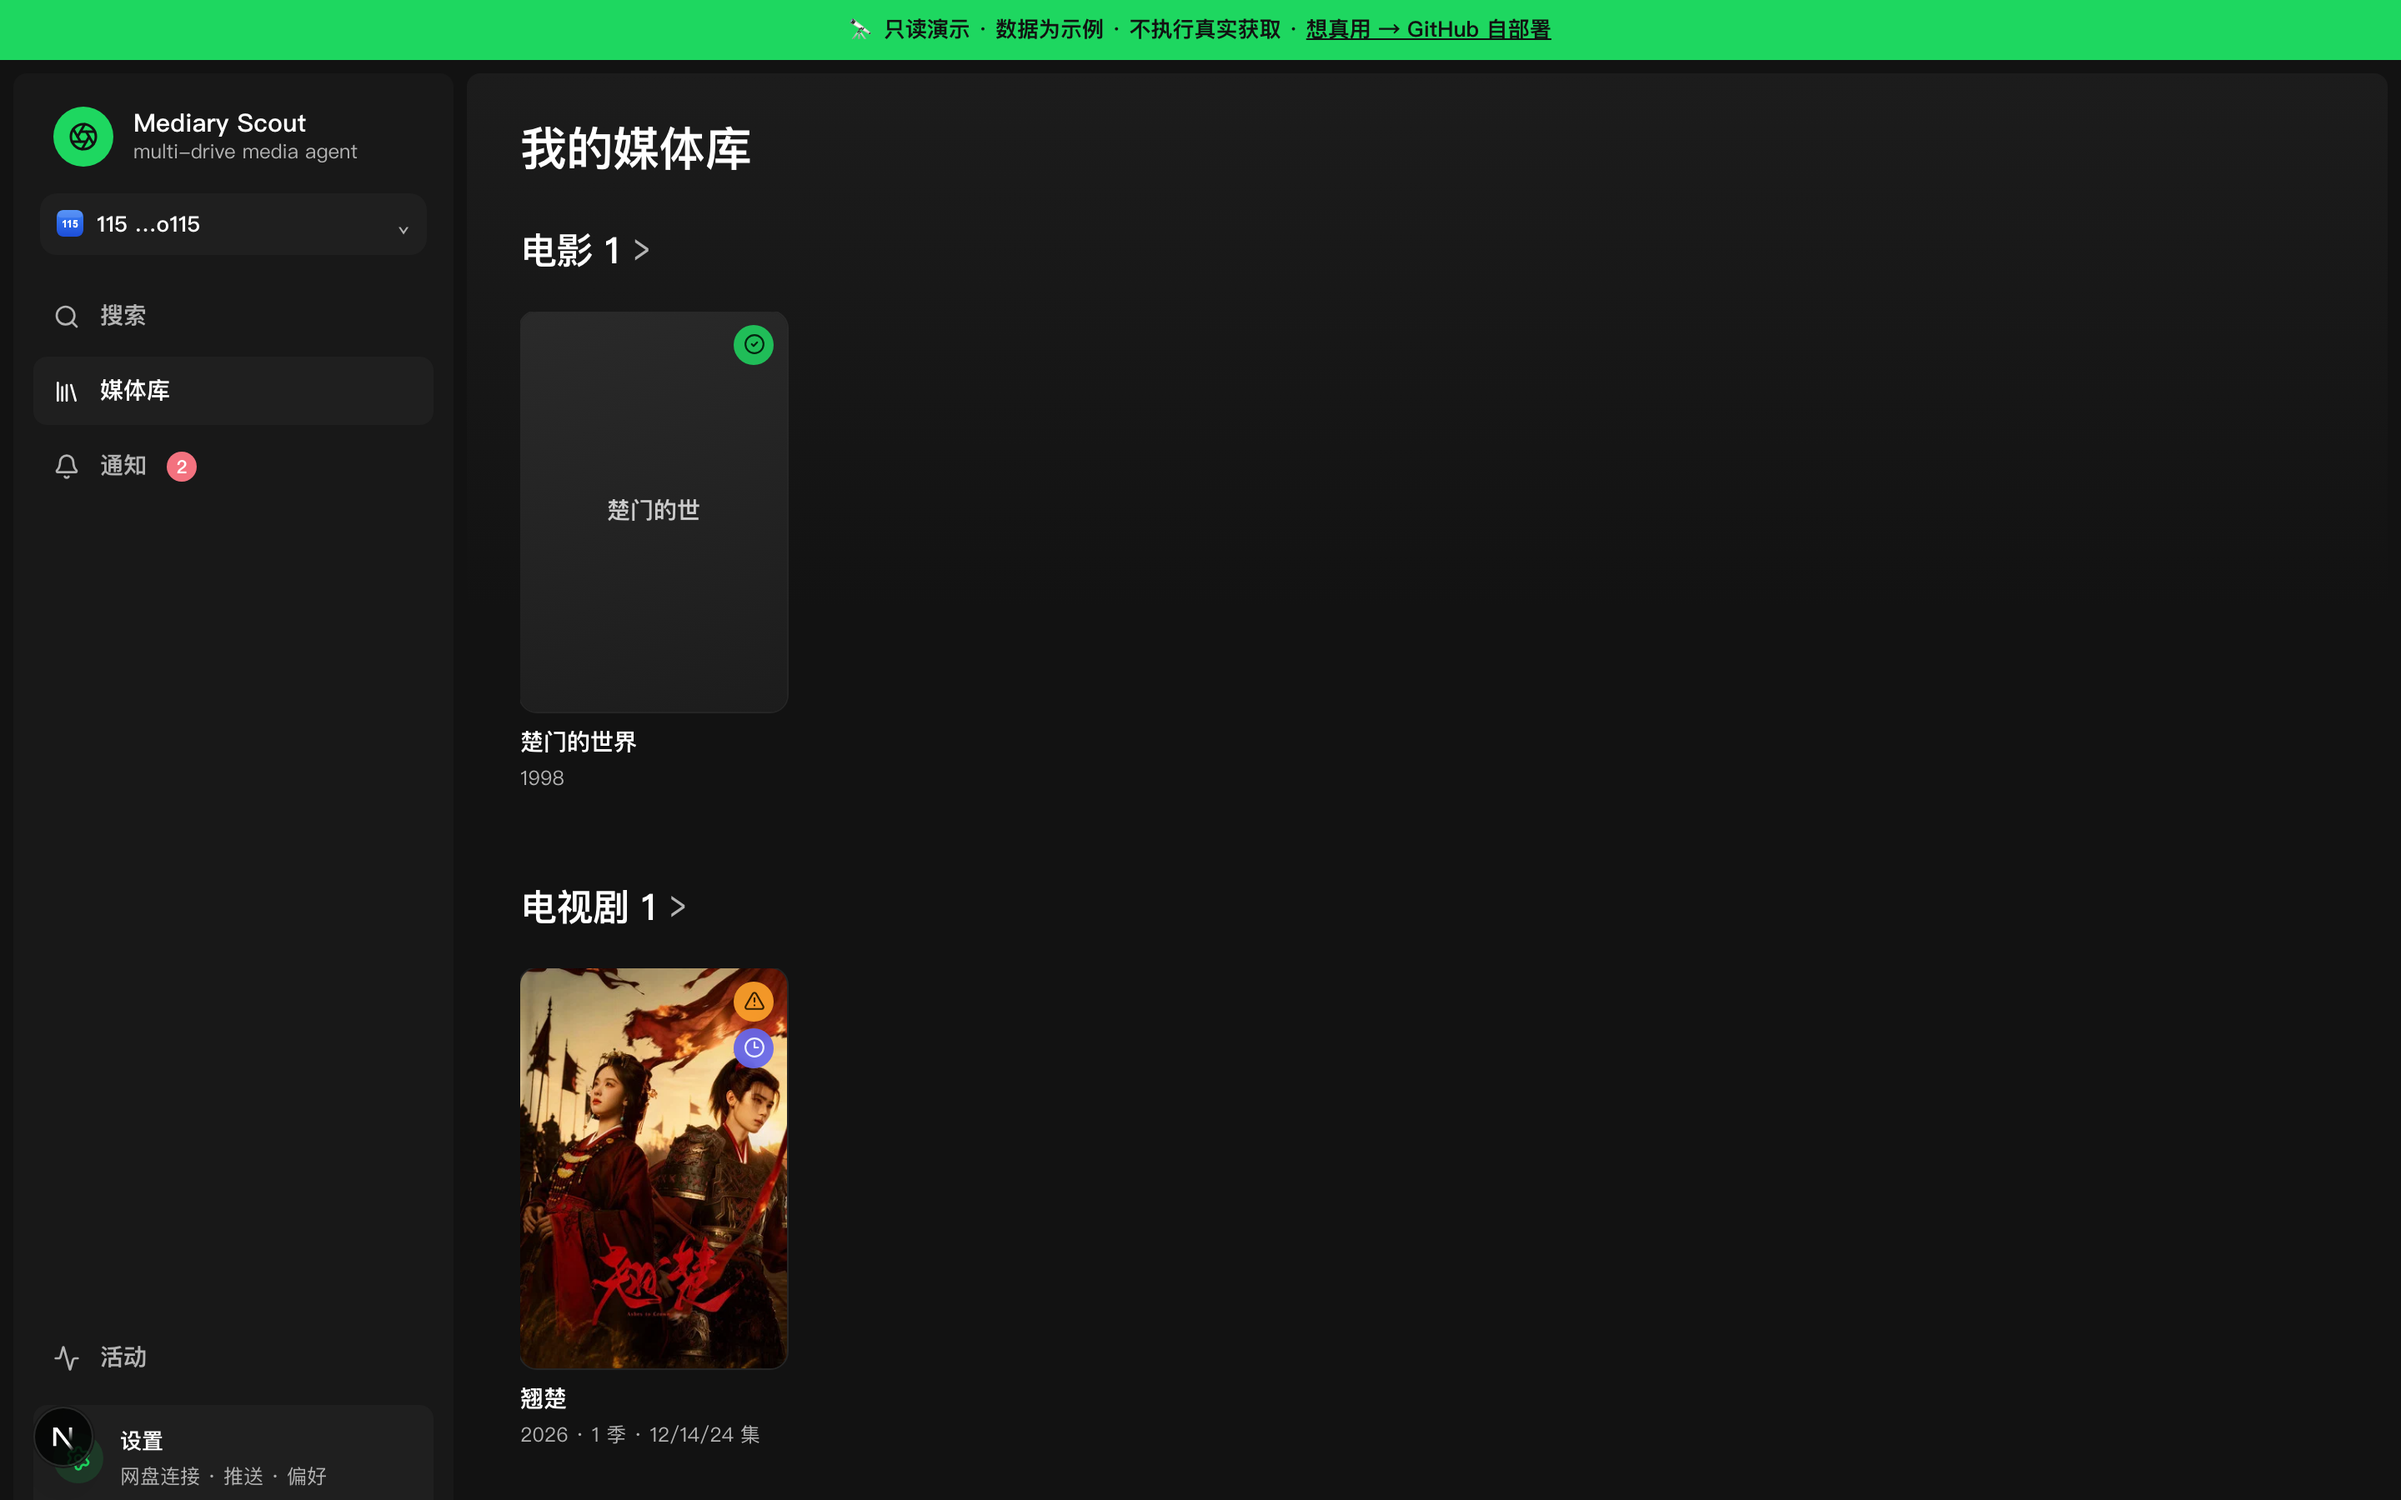
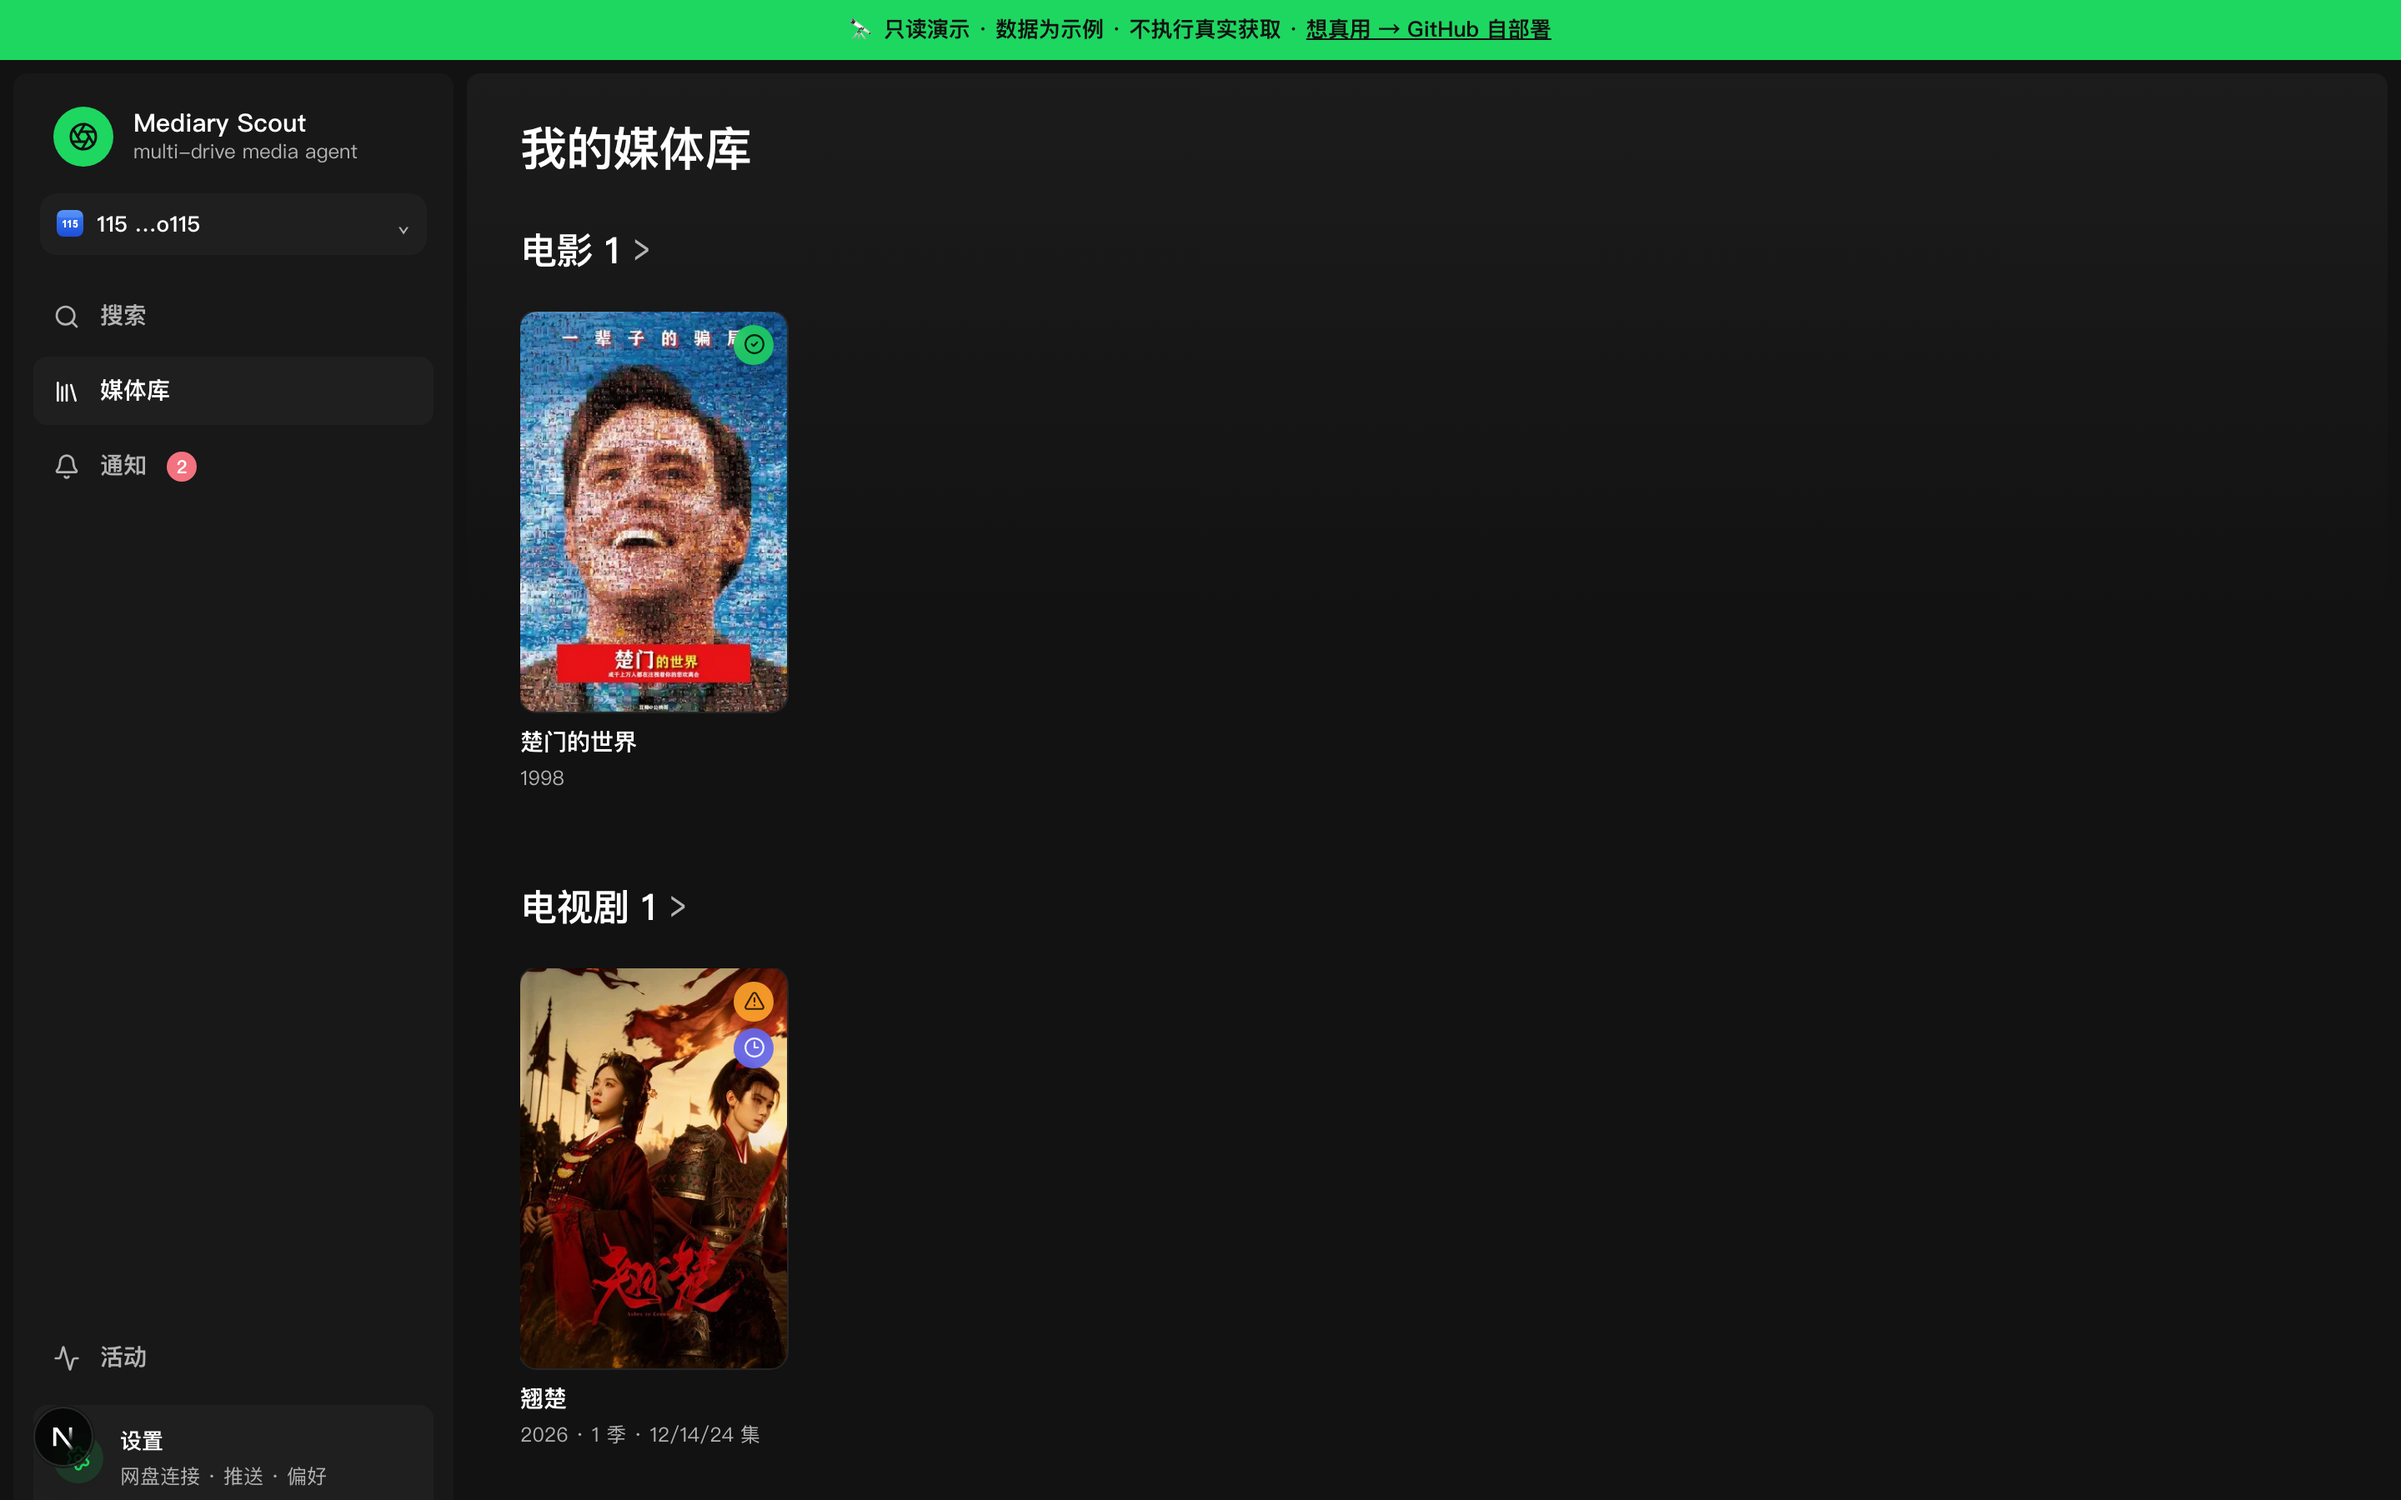
fix(demo): 给 demo 标题补真实 TMDB poster_path——修 README 截图电影海报空白
根因:demo fixtures(movieFixture/qiaochuFixture)未设 posterPath,getLibraryWall
的懒补全只覆盖剧集(seriesTargetFor),电影 id 走 TV 拉取 404→海报空白(剧集偶然
能补到才显示)。给三部 demo 标题(翘楚/楚门/肖申克)补经代理取到的真实 poster/backdrop
path,卡片直接渲染、确定性、离线/任意 provider 模式都成立。重拍 library/show 截图真验海报渲染。

Changed region(s): [[0.2188, 0.1867, 0.3438, 0.4978]]

diff --git a/apps/web/lib/demo-workflow.ts b/apps/web/lib/demo-workflow.ts
@@ -101,7 +101,14 @@ export async function seedDemoWorkflowRepository(repository: WorkflowRepository)
   });
 
   // Two completed movies, one on each drive.
-  const truman = movieFixture({ tmdbId: 37165, title: "楚门的世界", year: 1998, storageDirectoryId: "demo_movies_115" });
+  const truman = movieFixture({
+    tmdbId: 37165,
+    title: "楚门的世界",
+    year: 1998,
+    storageDirectoryId: "demo_movies_115",
+    posterPath: "/nAnzFcqORitpwvRQPceIt4mcm8G.jpg",
+    backdropPath: "/aCHn2TXYJfzPXQKA6r9mKPbMlUB.jpg",
+  });
   await repository.saveWorkflowRunSnapshot({
     accountId: DEMO_ACCOUNT,
     connectedStorageId: DEMO_DRIVE_115,
@@ -124,7 +131,14 @@ export async function seedDemoWorkflowRepository(repository: WorkflowRepository)
     ],
   });
 
-  const shawshank = movieFixture({ tmdbId: 278, title: "肖申克的救赎", year: 1994, storageDirectoryId: "demo_movies_q" });
+  const shawshank = movieFixture({
+    tmdbId: 278,
+    title: "肖申克的救赎",
+    year: 1994,
+    storageDirectoryId: "demo_movies_q",
+    posterPath: "/Aqo8yM5S5ZEdlcyeBBxj7s0vkTf.jpg",
+    backdropPath: "/zfbjgQE1uSd9wiPTX4VzsLi0rGG.jpg",
+  });
   await repository.saveWorkflowRunSnapshot({
     accountId: DEMO_ACCOUNT,
     connectedStorageId: DEMO_DRIVE_QUARK,
@@ -144,6 +158,8 @@ function movieFixture(input: {
   title: string;
   year: number;
   storageDirectoryId: string;
+  posterPath: string;
+  backdropPath: string;
 }): { title: MediaTitle; season: TrackedSeason; episodes: EpisodeState[] } {
   const title: MediaTitle = {
     id: `tmdb_movie_${input.tmdbId}`,
@@ -153,6 +169,8 @@ function movieFixture(input: {
     originalTitle: input.title,
     year: input.year,
     aliases: [],
+    posterPath: input.posterPath,
+    backdropPath: input.backdropPath,
   };
   const season: TrackedSeason = {
     id: `tmdb_movie_${input.tmdbId}_movie`,
@@ -221,6 +239,8 @@ function qiaochuFixture(): { title: MediaTitle; season: TrackedSeason } {
     originalTitle: "翘楚",
     year: 2026,
     aliases: [],
+    posterPath: "/vcU56Dw1aKxTTlhrVr0qvPnljDV.jpg",
+    backdropPath: "/6CgpC5cS8jvkXgkI0pRoj31nHf6.jpg",
   };
   return {
     title,

diff --git a/apps/web/lib/demo-workflow.test.ts b/apps/web/lib/demo-workflow.test.ts
@@ -21,4 +21,22 @@ describe("seedDemoWorkflowRepository (expanded demo seed)", () => {
       expect(snap, runId).not.toBeNull();
     }
   });
+
+  it("seeds every title (show + both movies) with a real TMDB poster path so library cards render artwork", async () => {
+    const repo = new InMemoryWorkflowRepository();
+    await seedDemoWorkflowRepository(repo);
+    const states = [
+      ...(await repo.listTrackedSeasonStates({ accountId: "acct_default", connectedStorageId: "cs_demo_115" })),
+      ...(await repo.listTrackedSeasonStates({ accountId: "acct_default", connectedStorageId: "cs_demo_quark" })),
+    ];
+    const posterByTmdb = new Map(states.map((s) => [s.title.tmdbId, s.title.posterPath]));
+    // 翘楚 (tv, 289271), 楚门的世界 (movie, 37165), 肖申克的救赎 (movie, 278) — all must carry
+    // a poster_path. Movies regressed: the demo previously left posterPath unset, so movie
+    // cards rendered the title-text fallback instead of artwork.
+    for (const tmdbId of [289271, 37165, 278]) {
+      const poster = posterByTmdb.get(tmdbId);
+      expect(poster, `tmdb ${tmdbId} poster_path`).toBeTruthy();
+      expect(poster!.startsWith("/"), `tmdb ${tmdbId} poster looks like a TMDB path`).toBe(true);
+    }
+  });
 });
